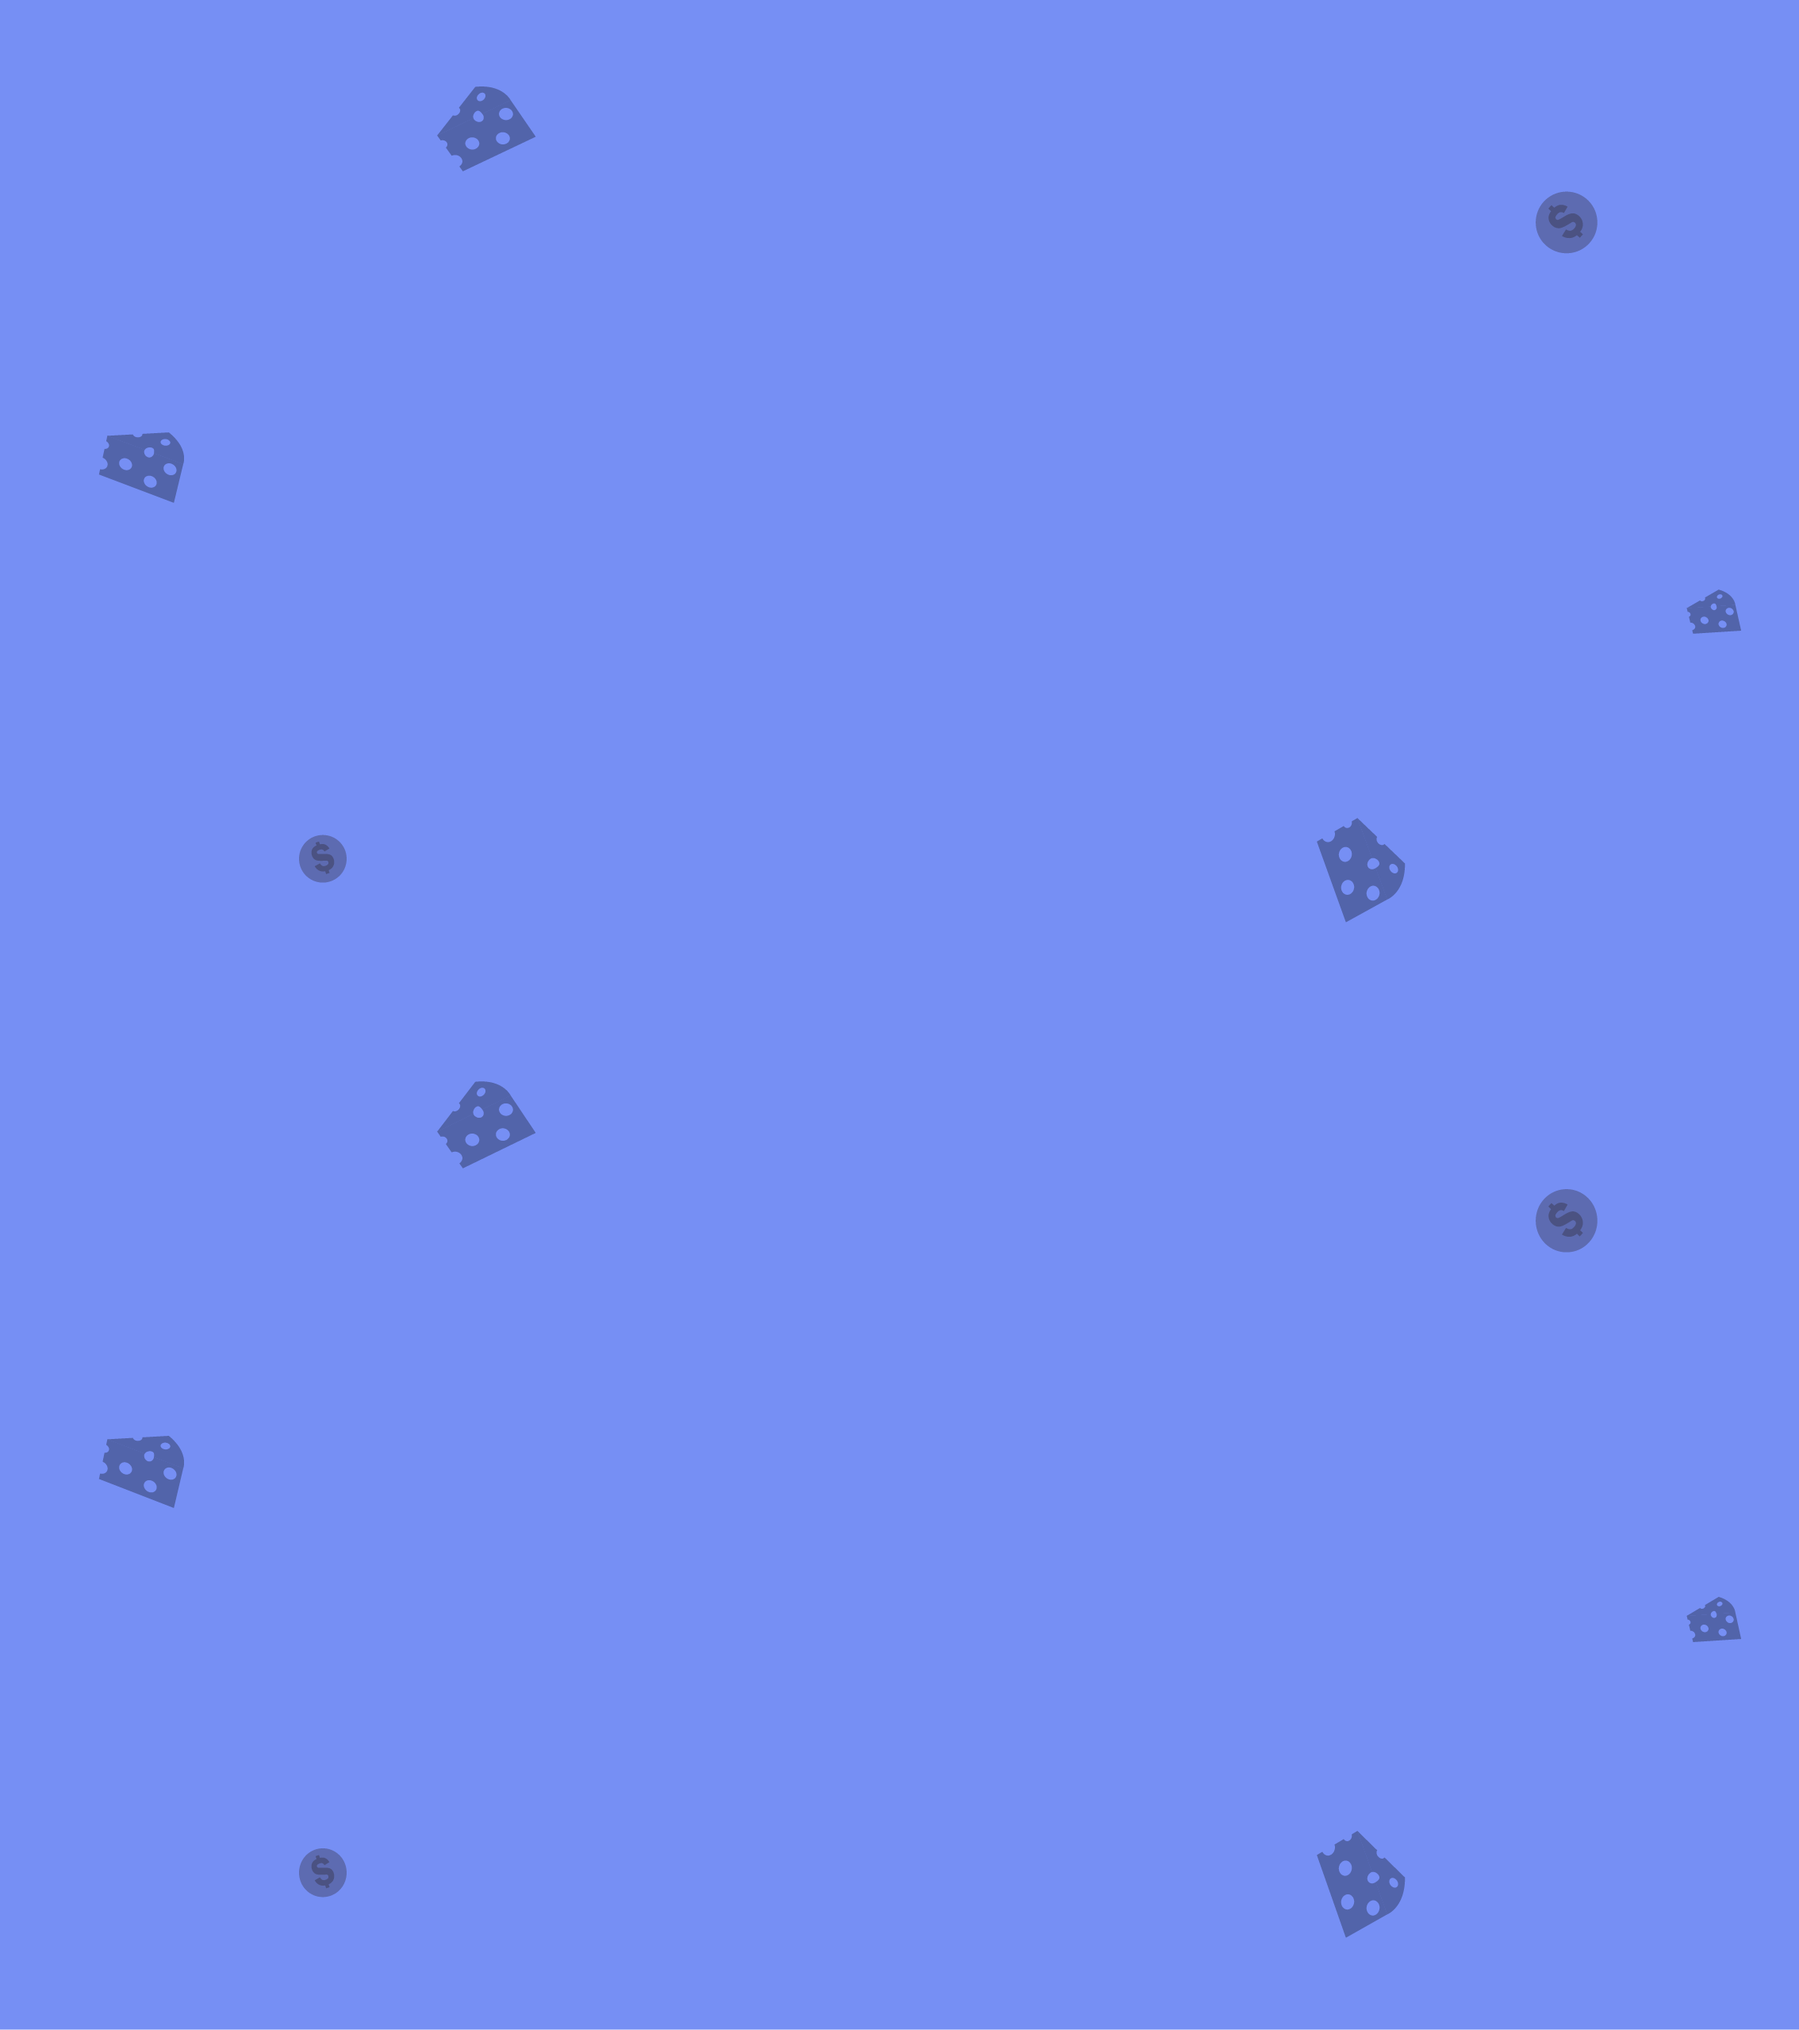
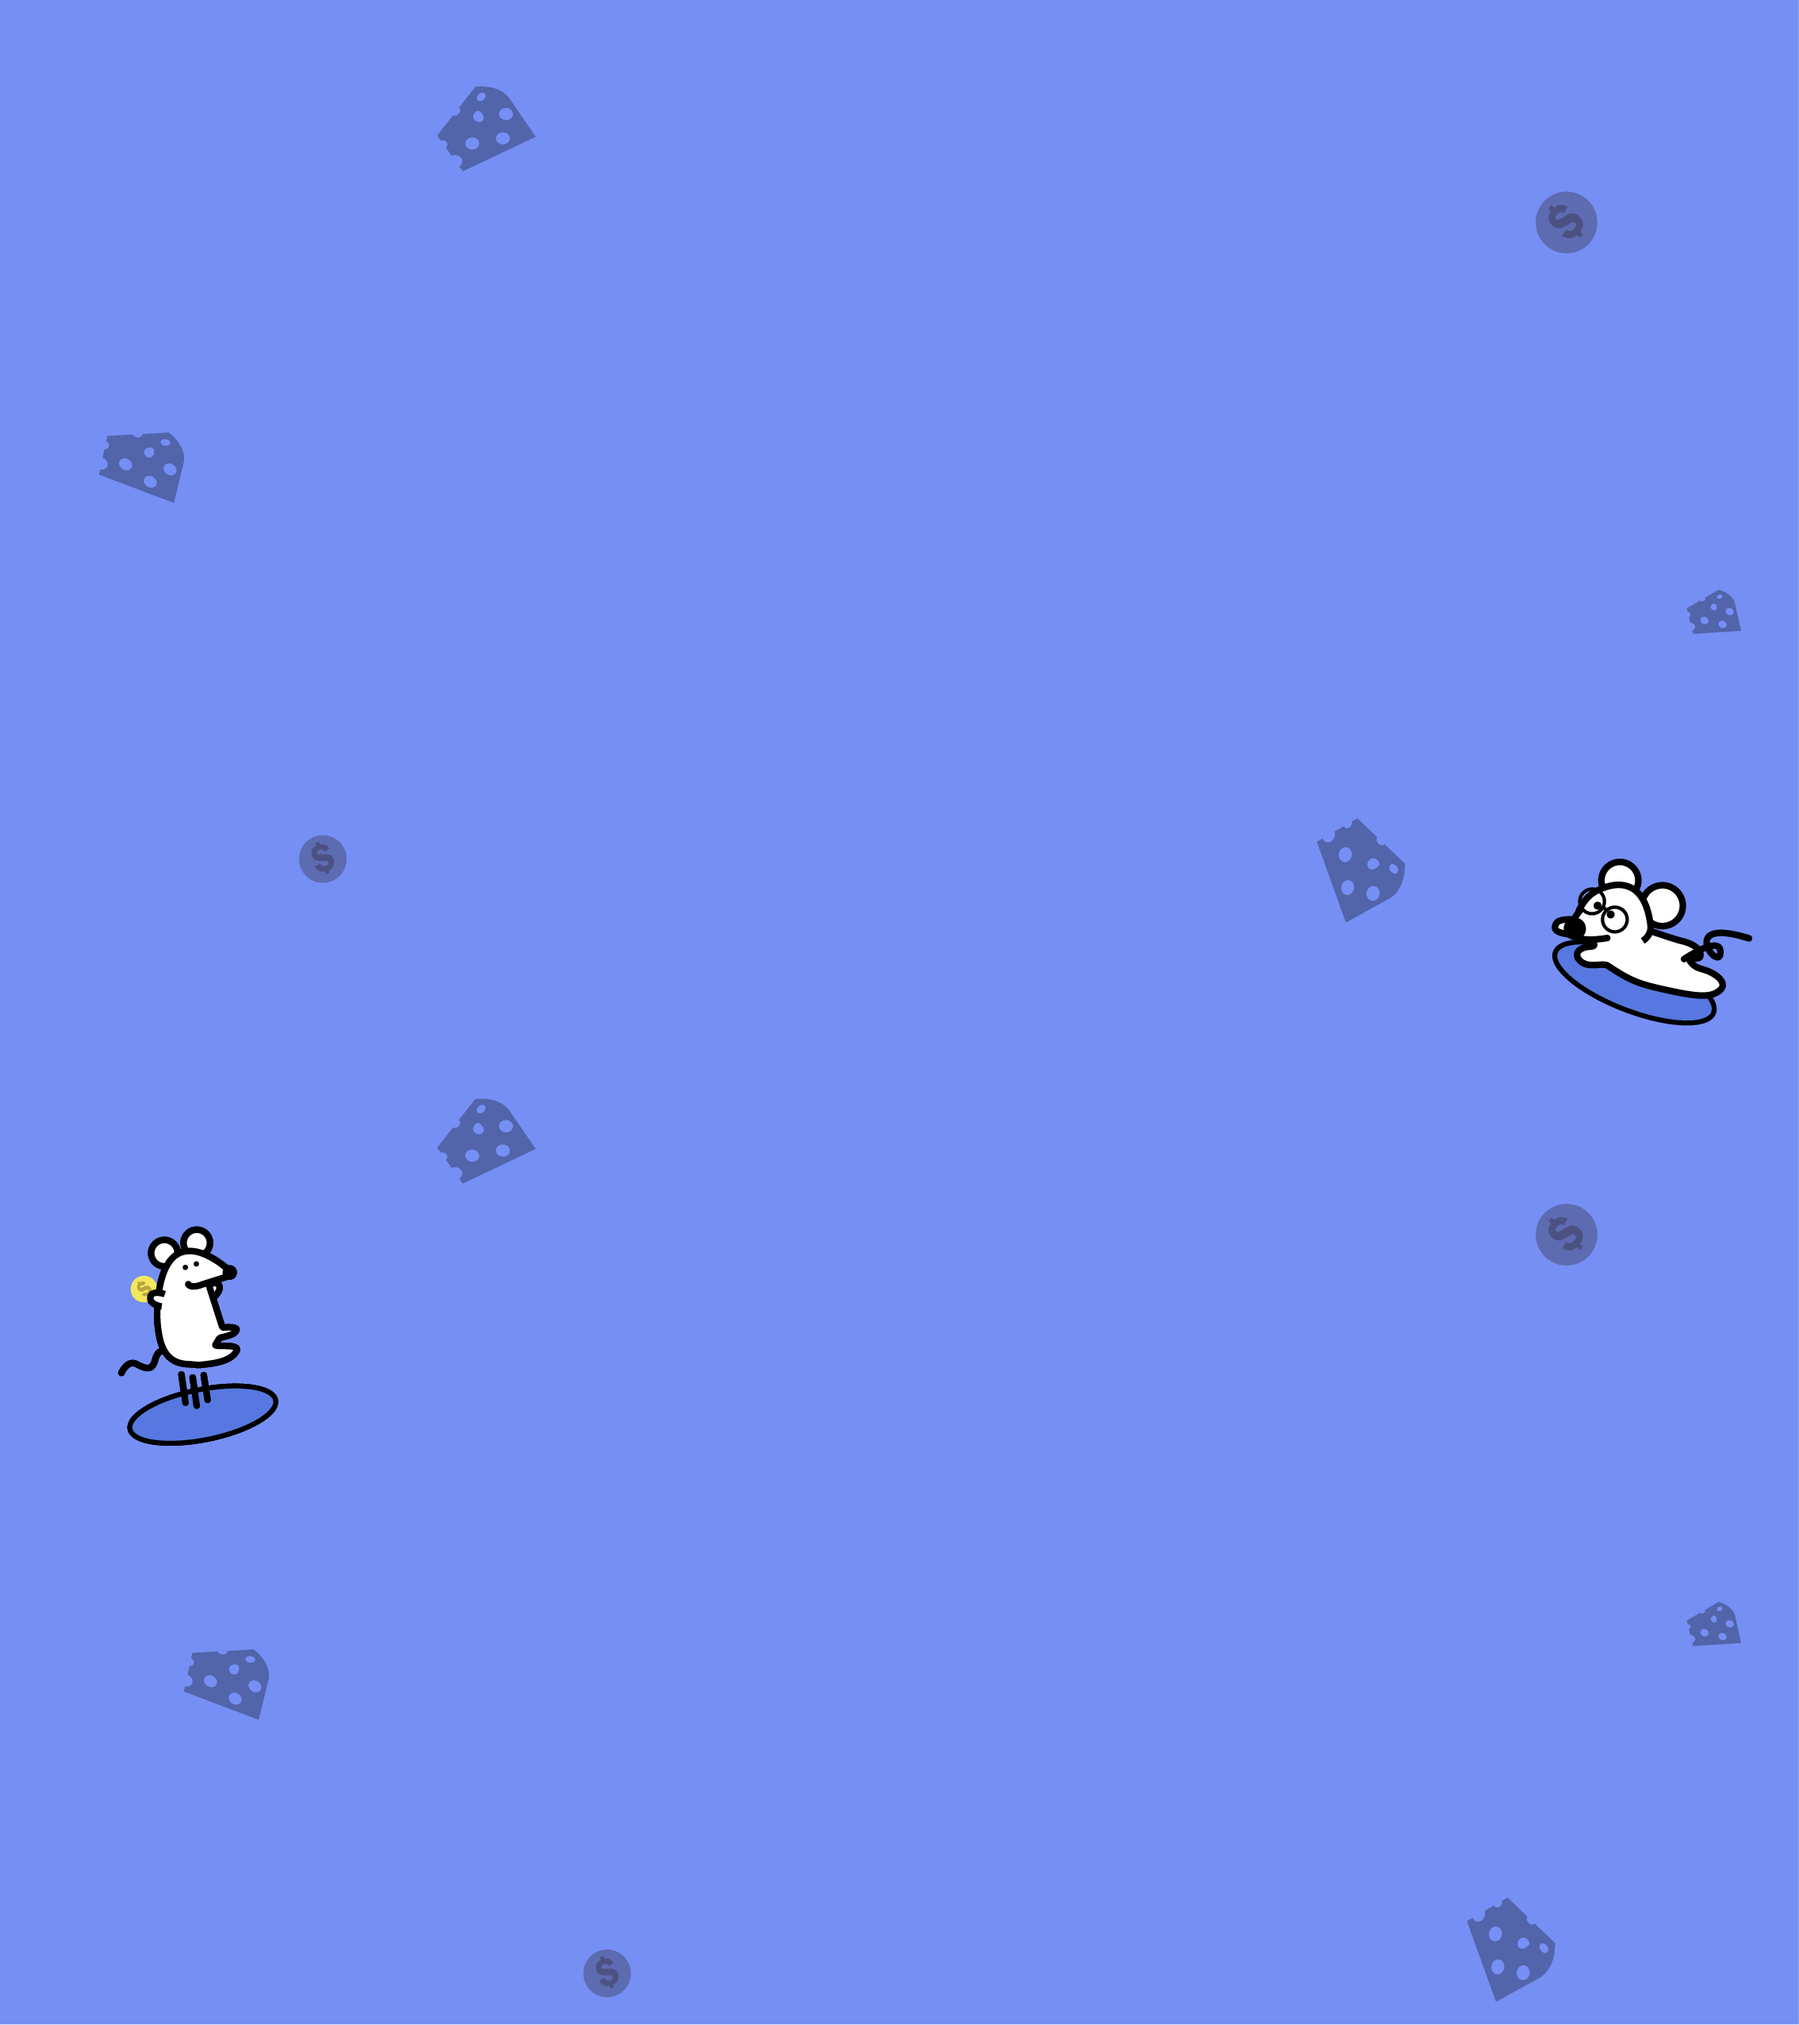
Fix. footer, background 수정 (#128)
* 자동이체 api 추가

* footer, background 수정

* Update SchedulerController.java

Fix

---------

diff --git a/frontend/src/components/Footers/SimpleFooter.js b/frontend/src/components/Footers/SimpleFooter.js
@@ -11,39 +11,41 @@ import {
   UncontrolledTooltip,
 } from "reactstrap";
 
+import footerBackground from "assets/img/theme/footer.png";
+
 class SimpleFooter extends React.Component {
   render() {
     return (
       <>
-        <footer className=" footer">
+        <footer className=" footer" style={{ backgroundImage: `url(${footerBackground})` }}>
           <Container>
             <Row className=" row-grid align-items-center mb-5">
-              <Col lg="6">
+              <Col lg="7">
                 <h3 className=" text-primary font-weight-light mb-2">
                   KB국민은행 IT아카데미 IT's Your Life 3기
                 </h3>
-                <h4 className=" mb-0 font-weight-light">1반 4팀</h4>
+                <h4 className=" mb-0 font-weight-light">1반 4조</h4>
               </Col>
             </Row>
             <hr />
             <Row className=" align-items-center justify-content-md-between">
               <Col md="6">
                 <div className="copyright">
-                  © 2023&nbsp;
+                  © 2023.&nbsp;
                   <a
                     href="https://github.com/boolsazo/bank-challenger"
                     target="_blank"
                   >
                     Boolsazo
                   </a>
-                  .
+                  &nbsp;&&nbsp;OBO. All Rights Reserved.
                 </div>
               </Col>
               <Col md="6">
                 <Nav className="nav-footer justify-content-end">
                   <NavItem>
                     <NavLink
-                      href="https://www.kbstar.com/www.creative-tim.com?ref=adsr-footer"
+                      href="https://www.kbstar.com"
                       target="_blank"
                     >
                       KB국민은행

diff --git a/frontend/src/pages/IndexSections/BfsProgressBar.js b/frontend/src/pages/IndexSections/BfsProgressBar.js
@@ -79,7 +79,7 @@ export default function BfsProgressBar(props) {
           <Grid item xs={9}>
             <Box sx={{ display: 'flex', alignItems: 'center' }}>
               <Box sx={{ width: '80%', mr: 1 }}>
-                <LinearProgress variant="determinate" style={{borderRadius: "5"}} value={invest} color="inherit" />
+                <LinearProgress variant="determinate" style={{borderRadius: "5"}} value={invest} color="error" />
               </Box>
               <Box sx={{ minWidth: 35 }}>
                 <Typography variant="body2" color="text.white">{`${Math.round(

diff --git a/frontend/src/pages/Goal.js b/frontend/src/pages/Goal.js
@@ -38,7 +38,7 @@ class Goal extends React.Component {
             <section>
               <img
                 alt="..."
-                src={require("assets/img/theme/background.png")}
+                src={require("assets/img/theme/goalbackground.png")}
                 style={{
                   width: "100%",
                   height: "1200px",

diff --git a/src/main/java/com/boolsazo/bankchall/controller/SchedulerController.java b/src/main/java/com/boolsazo/bankchall/controller/SchedulerController.java
@@ -54,6 +54,7 @@ public class SchedulerController {
             }
 
         }
+        
     }
 
 }
